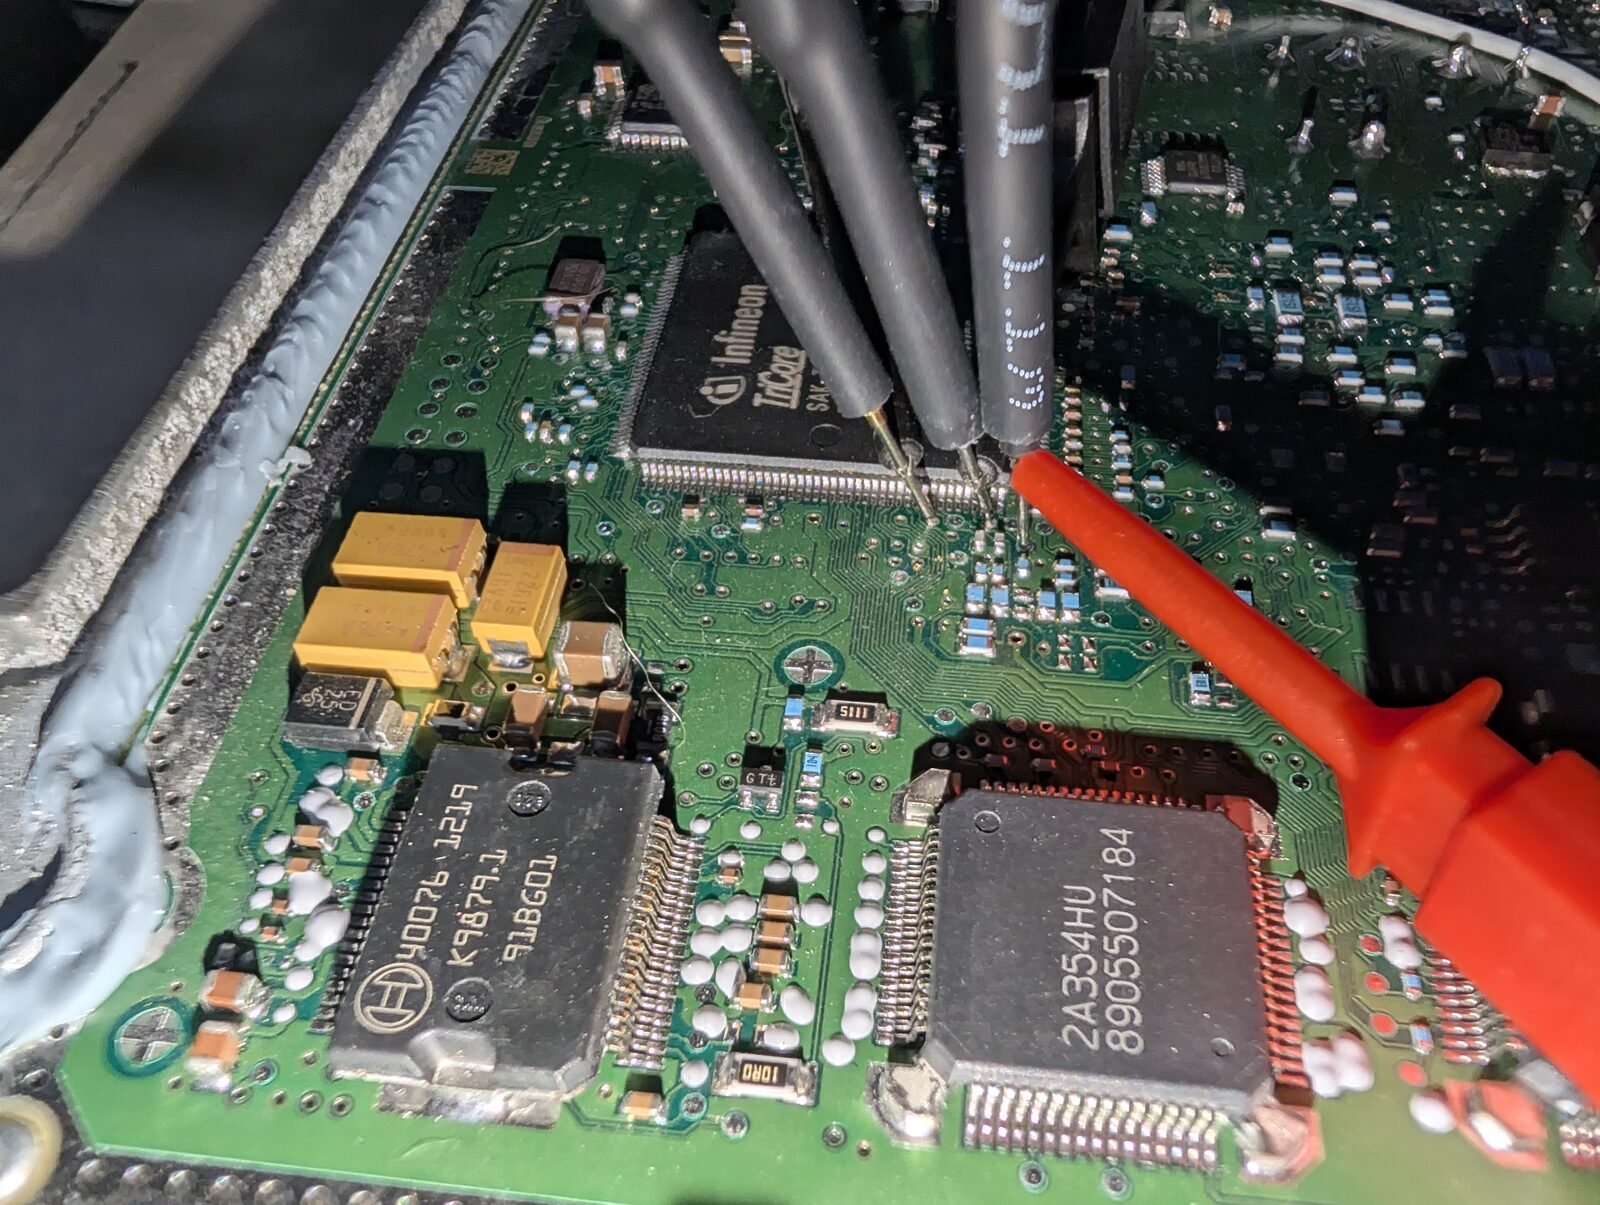
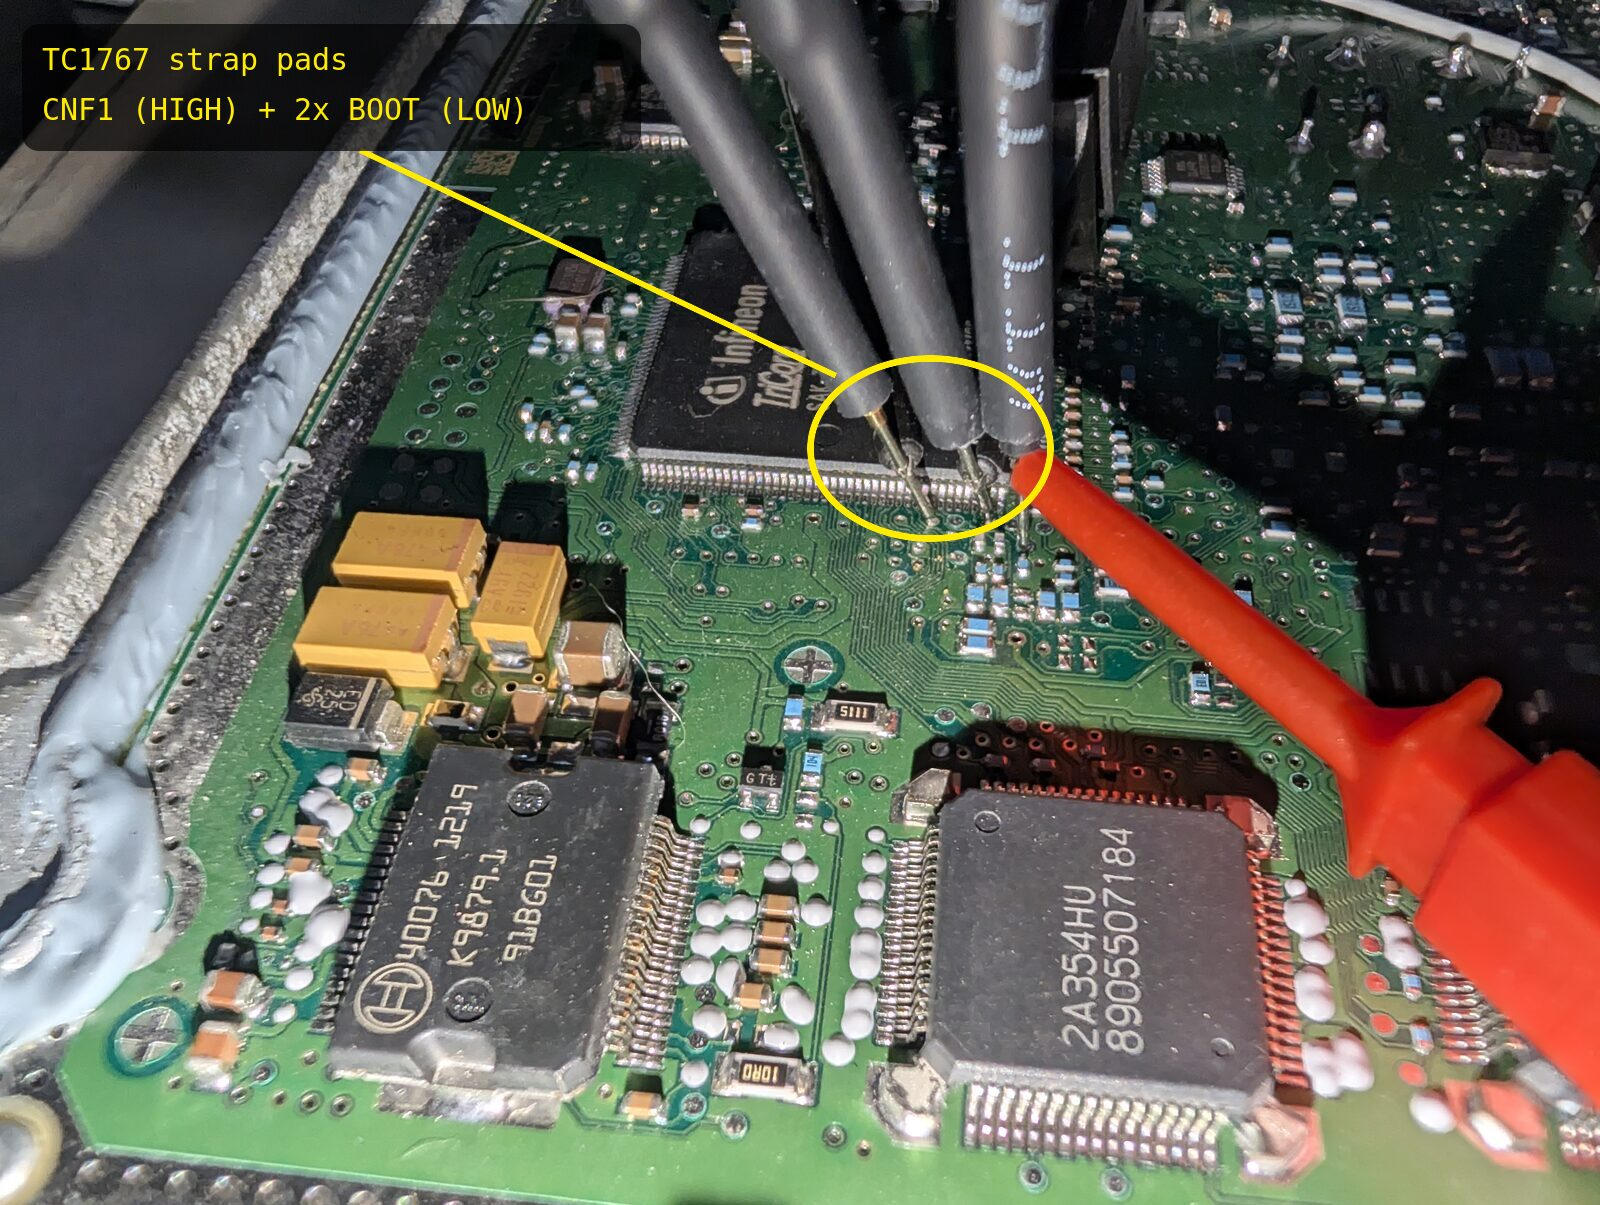
docs(hardware): correct CNF1 strap value; annotate strap-pad photo
CNF1 is HIGH to 3.3 V through 1 kOhm-3 kOhm (both work; target ~2.4-3.3 V
at the pin), not a fixed 1 kOhm; both BOOT pads share a single 1 kOhm to
GND. Annotate the MED17.9.8 strap-pad photo with the pad-cluster callout
and carry the corrected values into the README quick start.

diff --git a/docs/HARDWARE.md b/docs/HARDWARE.md
@@ -17,8 +17,8 @@ Pick one transport; the loader's command logic is identical either way (`make` v
 - **Boot-strap drive** for CAN-BSL entry: the TC1767 `CNF1`/`BOOT` config pins must be held at the
   correct levels at reset. These are **logic-level, ~zero current** — a GPIO (level-shifted to the
   pin's voltage) or simple resistor straps suffice. For the MED17.9.8 / MEDG17.9.8 units the
-  verified straps are **CNF1 HIGH** (3.3 V via a 1 kΩ current-limiting resistor; 500 Ω–2 kΩ generally) and **both BOOT pads
-  LOW** (to GND through a 1 kΩ, which the two pads may share) — full table in
+  verified straps are **CNF1 HIGH** (to 3.3 V through a series resistor — 1 kΩ–3 kΩ both work; reads ~2.4–3.3 V at the pin) and **both BOOT pads
+  LOW** (to GND through a single shared 1 kΩ) — full table in
   "[MED17.9.8 & MEDG17.9.8 — BSL strap & signal connections](#med1798--medg1798--bsl-strap--signal-connections)" below.
 - **A way to reset/power-cycle the ECU on cue** (the BootROM only listens for BSL right after
   reset). Manual switch is fine; or a GPIO-driven MOSFET on the ignition/enable line.
@@ -54,7 +54,7 @@ pads at the TC1767 (see the per-ECU pad notes below).
   adapter  ── CAN-L ─────────────────── ECU CAN-L ┘  host is an ACTIVE node (not listen-only)
   (active,
    500 kbit/s)
-                   CNF1  (pin 173) ──── 1 kΩ ──── 3.3 V      (HIGH strap)
+                   CNF1  (pin 173) ──── 1–3 kΩ ── 3.3 V      (HIGH strap; ~2.4–3.3 V at pin)
                    BOOT  (pin 167) ─┐
                    BOOT  (pin 174) ─┴── 1 kΩ ──── GND        (LOW straps; may share one 1 kΩ)
 ```
@@ -72,7 +72,7 @@ loader on a TC1767 ECU:
   internal loopback yet never frame the live bus** — give the transceiver its rated voltage.
 - **Power:** 12 V bench supply switched **high-side** by a relay driven from a host GPIO
   (Raspberry Pi GPIO17).
-- **Straps:** resistor straps on the TC1767 — CNF1 1 kΩ to 3.3 V, both BOOT pads 1 kΩ to GND.
+- **Straps:** resistor straps on the TC1767 — CNF1 to 3.3 V through 1 kΩ–3 kΩ (reads ~2.4–3.3 V at the pin), both BOOT pads sharing one 1 kΩ to GND.
 - **Command:**
   `connect --interface can0 --power-gpio 17 --power-off-ms 3500 --can-recover --frame-pace 0.005`
 
@@ -91,7 +91,7 @@ Values below are verified for these units.
 | CAN-L | host CAN-L ↔ ECU CAN-L | — | same pair as CAN-H |
 | ASC0 TX/RX | **over CAN-H / CAN-L** | — | serial alternative runs on the CAN pair (half-duplex); no separate serial pins |
 | K-line | not used | — | this engine uses CAN, or ASC0 over the CAN pair; no K-line |
-| CNF1 (HIGH strap) | **TC1767 pin 173**, driven 3.3 V through a current-limiting resistor (500 Ω–2 kΩ generally; **1 kΩ** on our TC1767) | **HIGH**, 2.3–3.0 V | the single high strap; held high it selects the CAN-BSL boot path at reset |
+| CNF1 (HIGH strap) | **TC1767 pin 173**, to 3.3 V through a series resistor (**1 kΩ–3 kΩ both work**; ~3 kΩ used today) | **HIGH**, ~2.4–3.3 V at the pin | the single high strap; held high it selects the CAN-BSL boot path at reset. Series value isn't critical — target ~2.4–3.3 V at the pin |
 | BOOT (LOW straps) | **TC1767 pins 167 & 174**, each to **GND through 1 kΩ** | **LOW** (pulled to ground) | the two BOOT pads; may share a **single 1 kΩ** at its ground connection |
 | GND | common host ↔ strap driver ↔ ECU/PSU | 0 V | mandatory common ground |
 | 12 V | bench PSU → ECU | 12 V | ECU draws amps — bench supply, never the host |
@@ -112,7 +112,9 @@ straps were applied with spring probes held on those pads.
 
 ![MED17.9.8 TC1767 strap pads](images/med1798-strap-pads.jpg)
 
-Probes on the strap pads at the TC1767 (Infineon TriCore) edge.
+Strap pads at the TC1767 edge (circled): **CNF1** held HIGH, the **two BOOT** pads held LOW. On
+this board the two rear probes are the BOOT pads (to a shared 1 kΩ → GND) and the remaining one is
+CNF1 (to 3.3 V through 1 kΩ–3 kΩ). Keep every strap lead short.
 
 ![MED17.9.8 TC1767 strap pads, second angle](images/med1798-strap-pads-2.jpg)
 

diff --git a/README.md b/README.md
@@ -20,9 +20,10 @@ git clone <this-repo> && cd tricore-bsl-engine
 ```
 
 Then wire the hardware and talk to the ECU. **Wire the BSL straps first** — for MED17.9.8 /
-MEDG17.9.8 (both TC1767): `CNF1`/pin 173 HIGH (3.3 V via a 1 kΩ current-limiting resistor) and both
-`BOOT` pads — pins 167 & 174 — LOW (to GND through a 1 kΩ), ECU power from a bench supply, common
-ground. Full table + pad notes in [`docs/HARDWARE.md`](docs/HARDWARE.md).
+MEDG17.9.8 (both TC1767): `CNF1`/pin 173 HIGH (to 3.3 V through a series resistor — **1 kΩ–3 kΩ
+both work**; it should read **~2.4–3.3 V** at the pin) and both `BOOT` pads — pins 167 & 174 — LOW
+(to GND through a **single shared 1 kΩ**), ECU power from a bench supply, common ground. Full table
++ annotated pad photos in [`docs/HARDWARE.md`](docs/HARDWARE.md).
 
 **These are the exact bootloader commands — copy-paste them.** (For serial instead of CAN, add
 `--transport asc --port /dev/ttyUSB0`; the ASC serial rides the same CAN-H/CAN-L pair,
